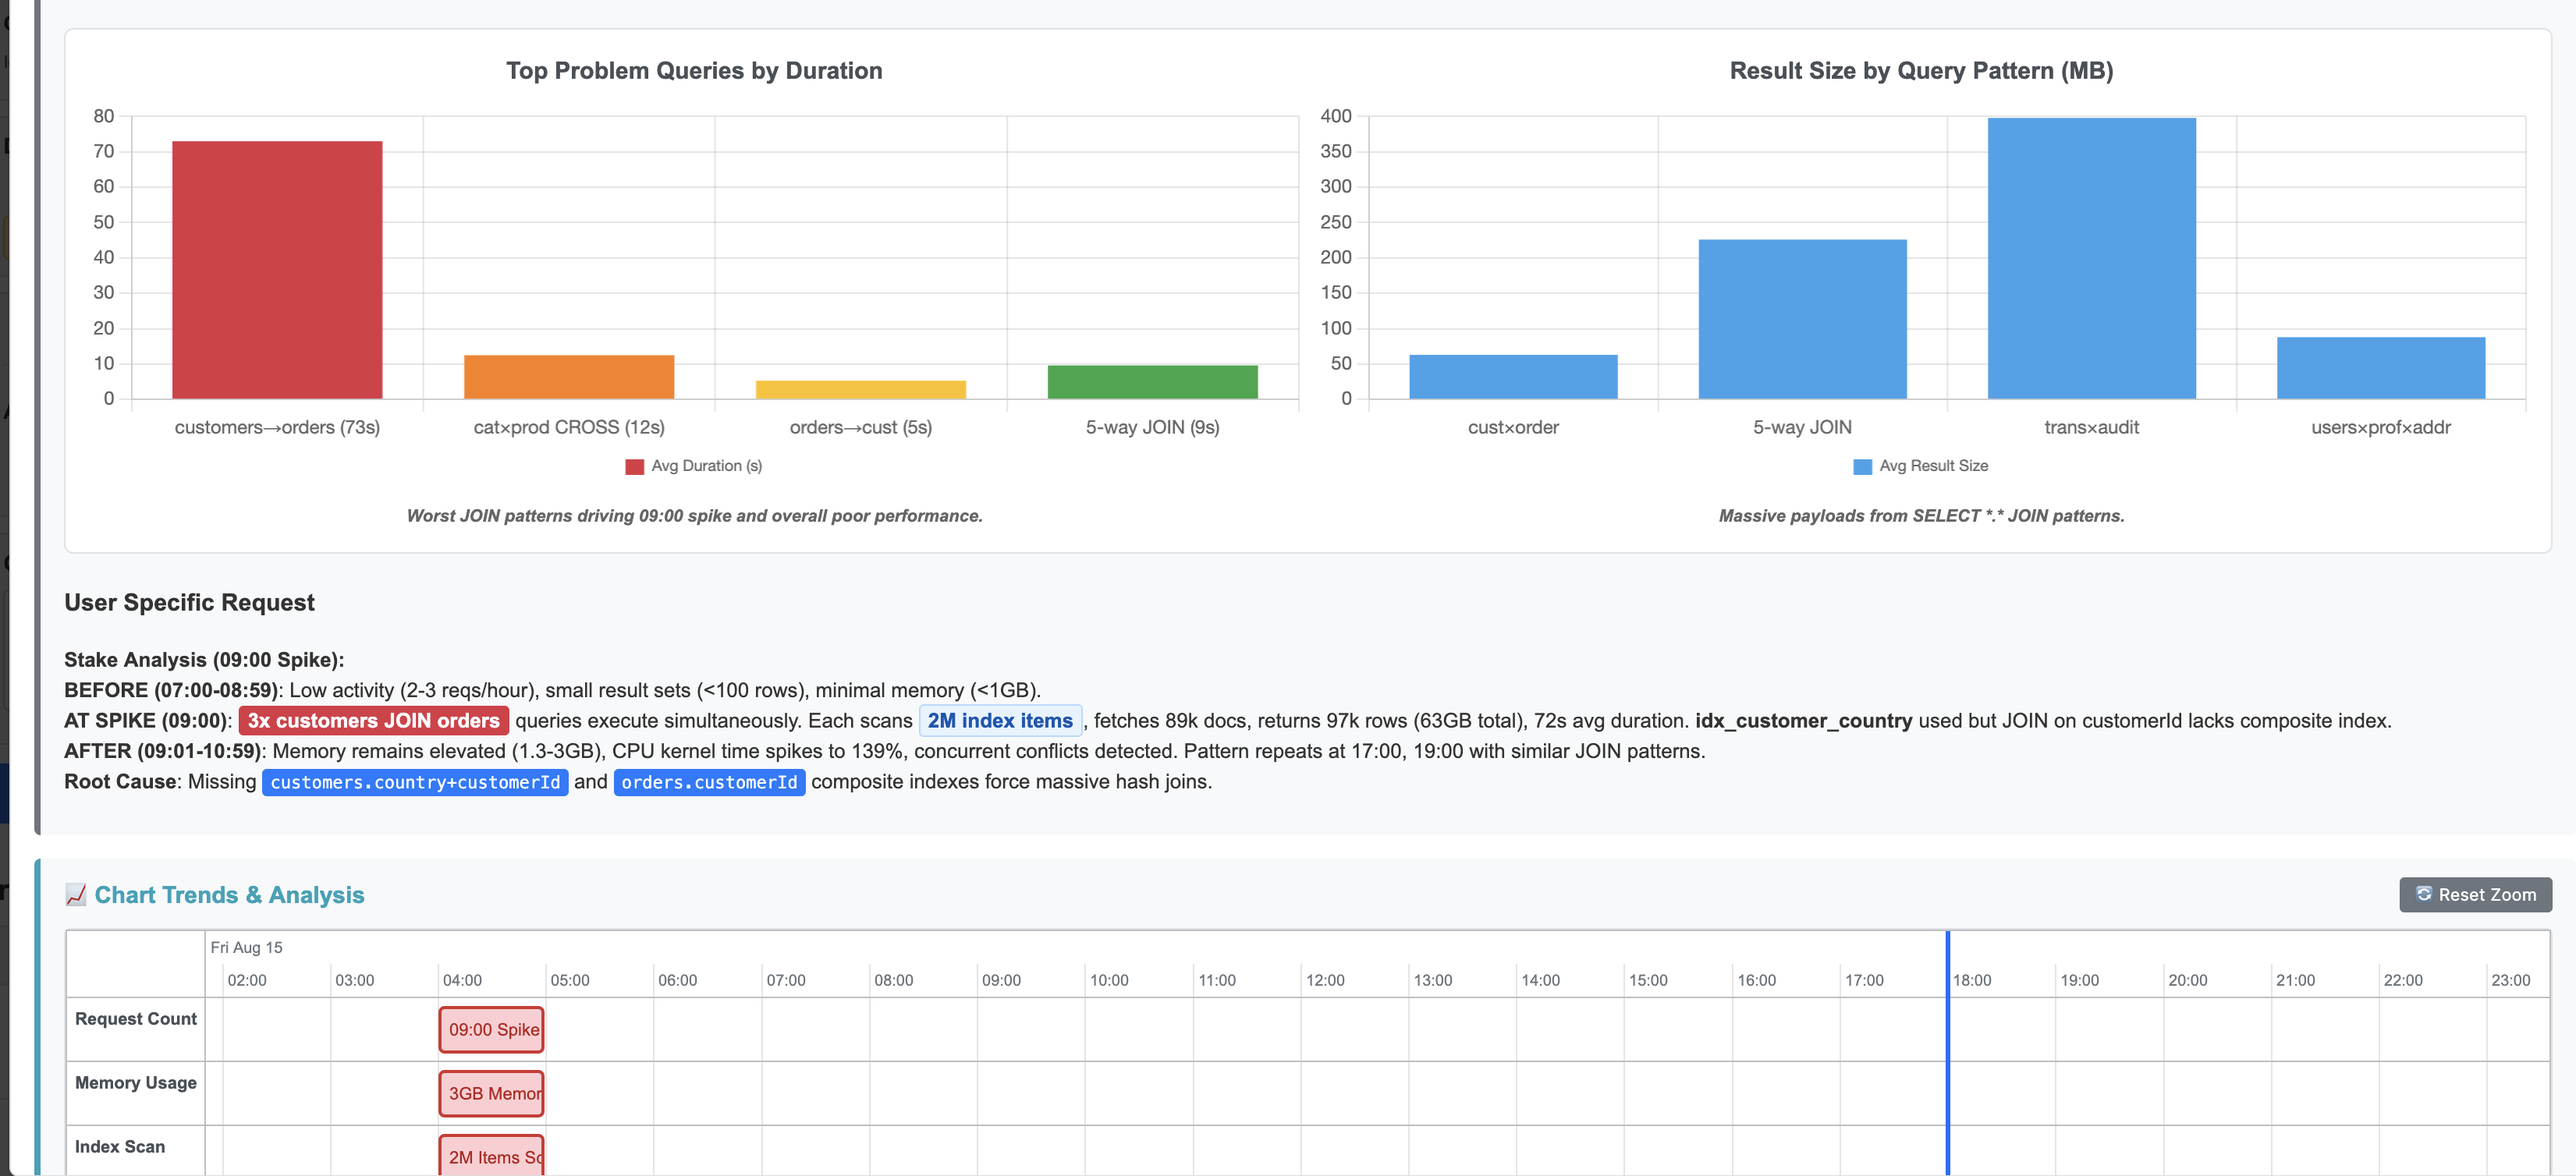
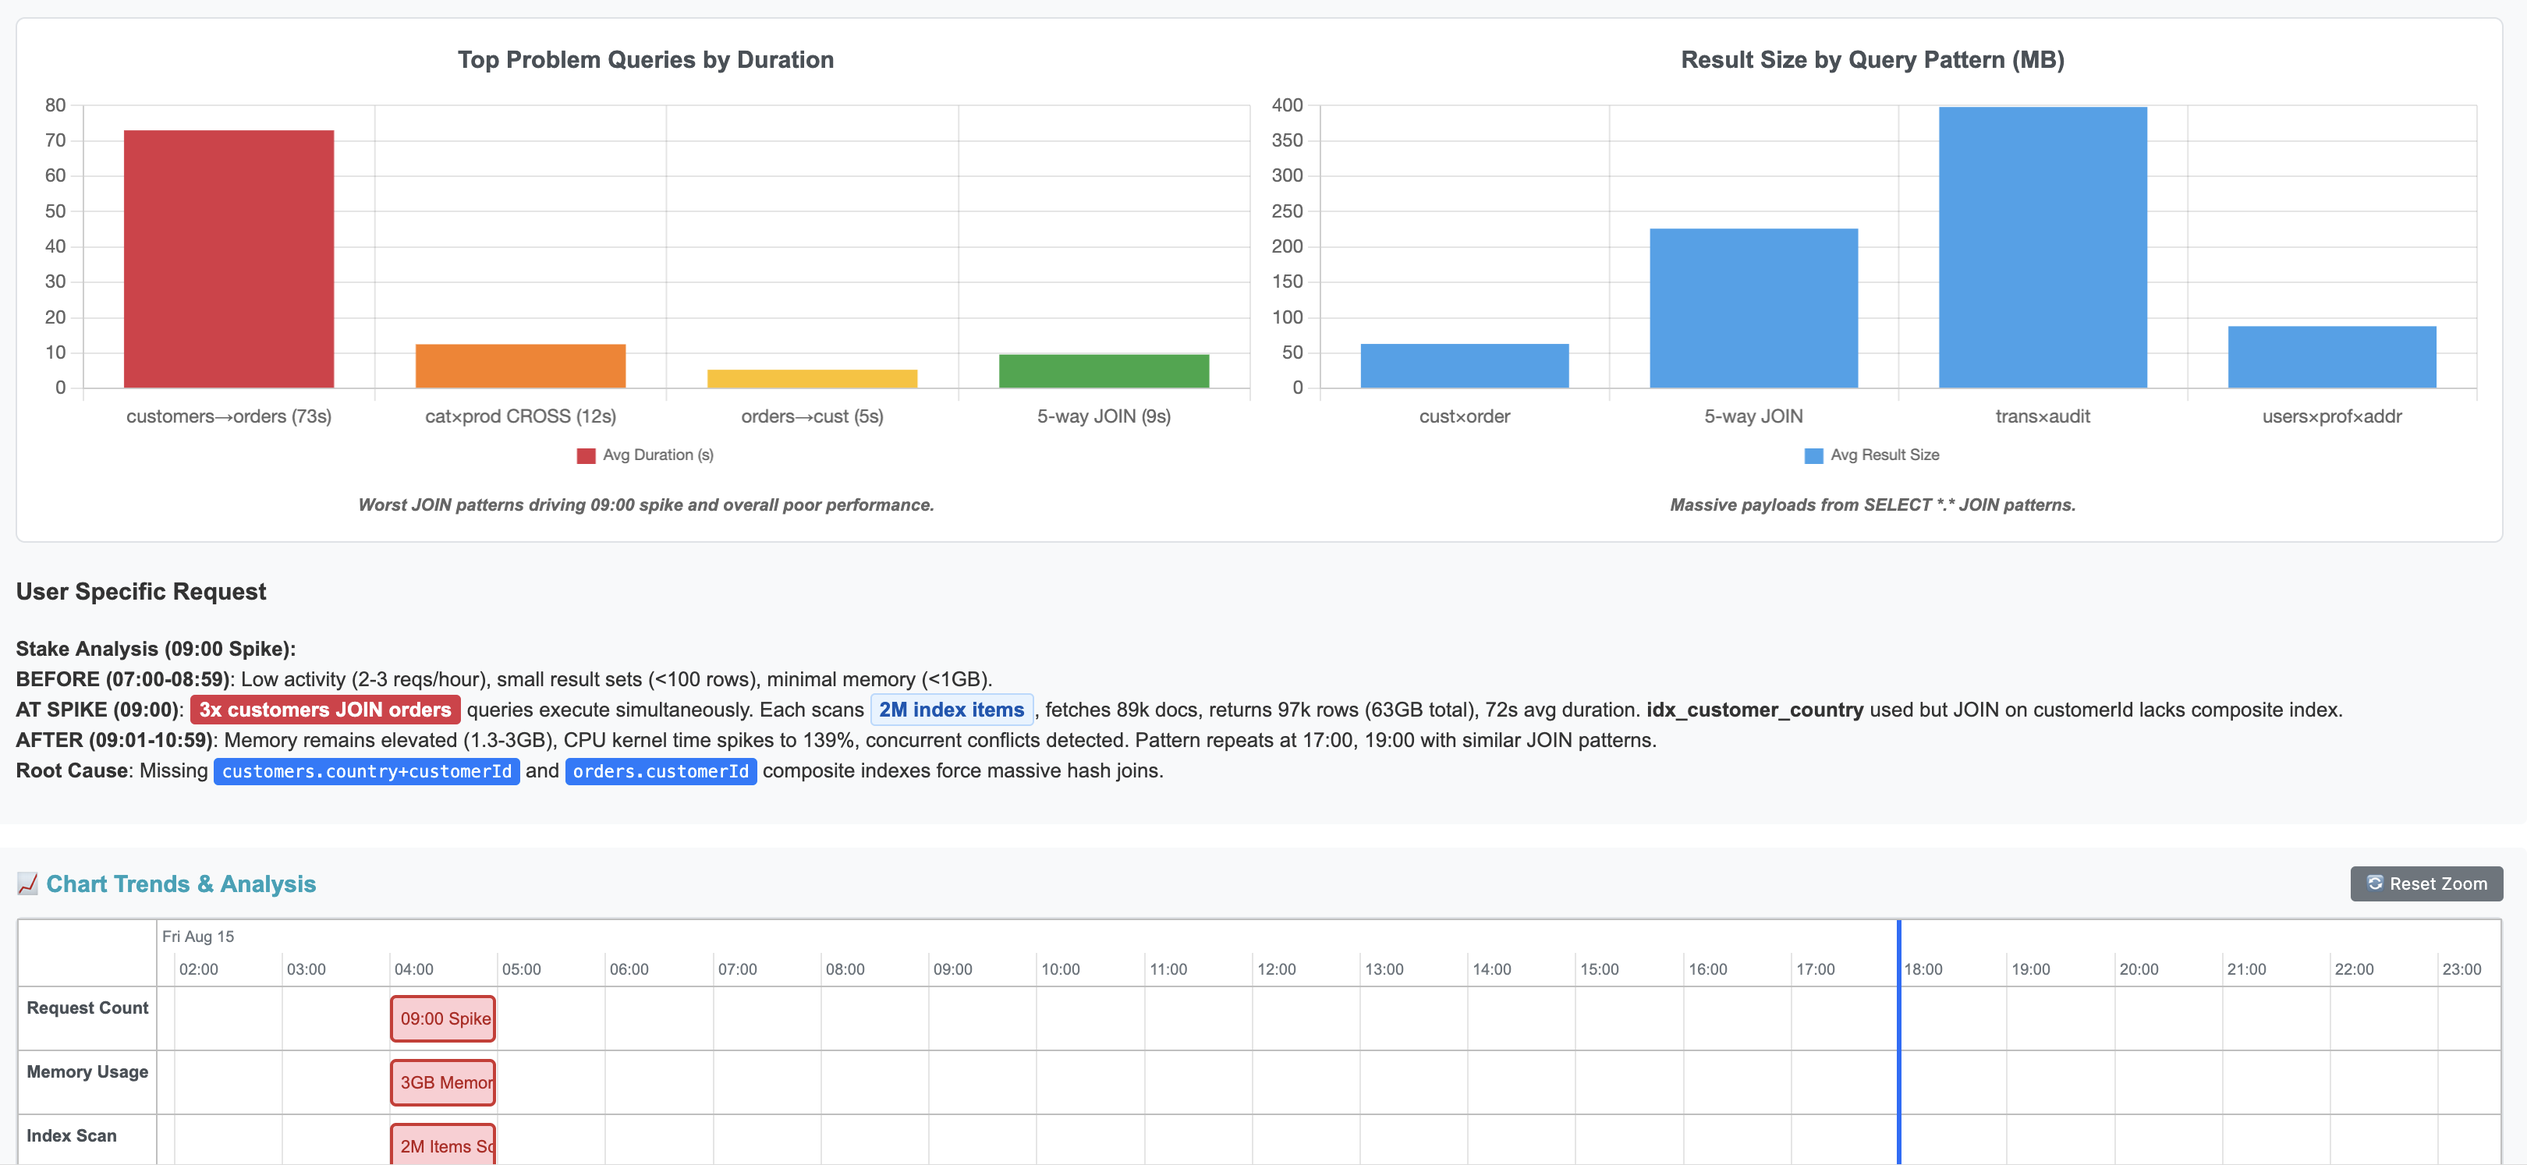
creates indexes on connection

diff --git a/liquid_snake_public/index.html b/liquid_snake_public/index.html
@@ -35,7 +35,7 @@
             background: white;
             border: 2px solid #007acc;
             border-radius: 10px;
-            padding: 12px 20px;
+            padding: 20px 30px;
             margin: 12px 0;
             box-shadow: 0 4px 14px rgba(0,0,0,0.06);
         }
@@ -43,57 +43,71 @@
             display: flex;
             align-items: center;
             justify-content: center;
-            gap: 15px;
-            flex-wrap: wrap;
+            gap: 20px;
+            flex-wrap: nowrap;
         }
         .evolution-item {
+            position: relative;
             text-align: center;
         }
-        .evolution-item.version-label {
-            font-size: 1.4em;
-            font-weight: 700;
-            color: #333;
+        .version-label {
+            position: absolute;
+            top: 50%;
+            left: 50%;
+            transform: translate(-50%, -50%);
+            font-size: 4em;
+            font-weight: 900;
+            color: rgba(0, 0, 0, 0.35);
+            pointer-events: none;
+            z-index: 1;
+            text-shadow: 0 0 15px rgba(255, 255, 255, 0.9);
         }
-        .evolution-item.version-label.new-version {
-            color: #ff8c00;
+        .version-label.new-version {
+            color: rgba(255, 140, 0, 0.5);
         }
         .evolution-item img.screenshot {
-            max-width: 200px;
+            height: 200px;
+            max-width: 340px;
+            object-fit: cover;
+            object-position: top left;
             border-radius: 6px;
-            box-shadow: 0 2px 8px rgba(0,0,0,0.1);
+            box-shadow: 0 4px 16px rgba(0,0,0,0.2);
         }
         .evolution-operator {
-            font-size: 1.8em;
-            font-weight: 300;
+            font-size: 2.5em;
+            font-weight: 700;
             color: #007acc;
+            padding: 0 8px;
         }
         .ai-logos-box {
             background: white;
             border: 1px solid #e0e0e0;
             border-radius: 8px;
-            padding: 10px 15px;
+            padding: 15px 20px;
             text-align: center;
-        }
-        .ai-logos-box .ai-label {
-            font-size: 1.1em;
-            font-weight: 700;
-            color: #333;
-            margin-bottom: 6px;
+            height: 200px;
+            display: flex;
+            flex-direction: column;
+            justify-content: center;
+            box-sizing: border-box;
+            box-shadow: 0 4px 16px rgba(0,0,0,0.2);
         }
         .ai-logos-box .logos-row {
             display: flex;
+            flex-direction: column;
             align-items: center;
             justify-content: center;
             gap: 8px;
         }
         .ai-logos-box img.ai-logo {
-            height: 24px;
+            height: 45px;
             width: auto;
         }
         .ai-logos-box .ai-subtext {
-            font-size: 0.8em;
+            font-size: 0.85em;
             color: #666;
-            margin-top: 4px;
+            margin-top: 8px;
+            line-height: 1.3;
         }
 
         /* Step description */
@@ -106,6 +120,9 @@
         /* Tabs override: dashed border for this page */
         .tab-content {
             border: 2px dashed #007acc;
+        }
+        .tabs-container {
+            margin-top: 5px;
         }
 
         /* Feature Matrix Tooltip */
@@ -177,9 +194,15 @@
             border-bottom: none;
         }
 
+        @media (max-width: 900px) {
+            .ai-evolution-content { flex-wrap: wrap; }
+            .evolution-item img.screenshot { height: 150px; }
+            .ai-logos-box { height: 150px; }
+        }
         @media (max-width: 600px) {
             .ai-evolution-content { flex-direction: column; }
-            .evolution-item img.screenshot { max-width: 90%; }
+            .evolution-item img.screenshot { height: auto; max-width: 90%; }
+            .ai-logos-box { height: auto; }
         }
     </style>
 </head>
@@ -206,12 +229,11 @@
             <div class="evolution-operator">+</div>
             <div class="evolution-item">
                 <div class="ai-logos-box">
-                    <div class="ai-label">AI</div>
                     <div class="logos-row">
                         <img src="assets/img/x_ai_logo.png" alt="xAI Grok" class="ai-logo">
                         <img src="assets/img/openAid_logo.png" alt="OpenAI" class="ai-logo">
                     </div>
-                    <div class="ai-subtext">Custom AI API</div>
+                    <div class="ai-subtext">Custom<br>AI API</div>
                 </div>
             </div>
             <div class="evolution-operator">=</div>
@@ -224,8 +246,8 @@
 
     <main>
         <section style="margin-bottom:10px">
-            <h2 style="margin-bottom:8px">Why Are My Queries Slow?</h2>
-            <p style="margin:0 0 8px">Slow Couchbase queries can stem from unoptimized N1QL/SQL++ statements, missing indexes, or inefficient data scans. This tool helps you:</p>
+            <h2 style="margin-top:15px;margin-bottom:8px">Why Are My Queries Slow?</h2>
+            <p style="margin:0 0 8px">Slow queries often result from unoptimized N1QL/SQL++, missing indexes, or inefficient scans. This tool helps:</p>
             <ul style="margin:0;padding-left:20px">
                 <li>Identify bottlenecks with detailed query analysis and <b>Insights</b>.</li>
                 <li>Visualize query performance with timelines and metrics.</li>
@@ -234,8 +256,8 @@
         </section>
 
         <section>
-            <h2>Get Started</h2>
-            <span class="feature-matrix-trigger">4.x vs 3.x Features
+            <h2 style="display:inline-block;margin-top:15px;margin-bottom:5px;margin-right:15px">Get Started</h2>
+            <span class="feature-matrix-trigger" style="vertical-align:middle">4.x vs 3.x Features
                 <div class="feature-matrix-popup">
                     <table class="feature-matrix-table">
                         <tr>

diff --git a/liquid_snake_public/getting_started.html b/liquid_snake_public/getting_started.html
@@ -303,16 +303,6 @@ docker run -p 5000:5000 fujioturner/couchbase-query-analyzer:latest</pre>
                     <ol class="steps-list">
                         <li><strong>Create Bucket:</strong> <code>cb_tools</code> (256 MB)</li>
                         <li><strong>Create Scope/Collection:</strong> <code>query.analyzer</code></li>
-                        <li><strong>Create Index:</strong>
-                            <div class="sql-query-box">
-                                <pre>CREATE INDEX `analysis_old_table_v2` 
-ON `cb_tools`.`query`.`analyzer`(
-    `createdAt` DESC INCLUDE MISSING, `metadata`, `status`,
-    `prompt`, `provider`, `sourceCluster`, `parseJson`.`filters`
-) WHERE (`docType` = "ai_analysis")</pre>
-                                <button class="sql-copy-btn">Copy</button>
-                            </div>
-                        </li>
                         <li><strong>Create User:</strong> <a href="https://docs.couchbase.com/cloud/clusters/manage-database-users.html" target="_blank">Database Credential</a> with Read/Write on <code>cb_tools</code></li>
                         <li><strong>Whitelist IP:</strong> <a href="https://docs.couchbase.com/cloud/get-started/connect.html#prerequisites" target="_blank">Add IP to Allowed List</a></li>
                     </ol>
@@ -326,16 +316,6 @@ ON `cb_tools`.`query`.`analyzer`(
                     <ol class="steps-list">
                         <li><strong>Create Bucket:</strong> <code>cb_tools</code> (256 MB)</li>
                         <li><strong>Create Scope/Collection:</strong> <code>query.analyzer</code></li>
-                        <li><strong>Create Index:</strong>
-                            <div class="sql-query-box">
-                                <pre>CREATE INDEX `analysis_old_table_v2` 
-ON `cb_tools`.`query`.`analyzer`(
-    `createdAt` DESC INCLUDE MISSING, `metadata`, `status`,
-    `prompt`, `provider`, `sourceCluster`, `parseJson`.`filters`
-) WHERE (`docType` = "ai_analysis")</pre>
-                                <button class="sql-copy-btn">Copy</button>
-                            </div>
-                        </li>
                         <li><strong>Create User:</strong> <a href="https://docs.couchbase.com/server/current/manage/manage-security/manage-users-and-roles.html#add-a-user" target="_blank">SDK User</a> with Data Reader/Writer on <code>cb_tools</code></li>
                     </ol>
                 </div>
